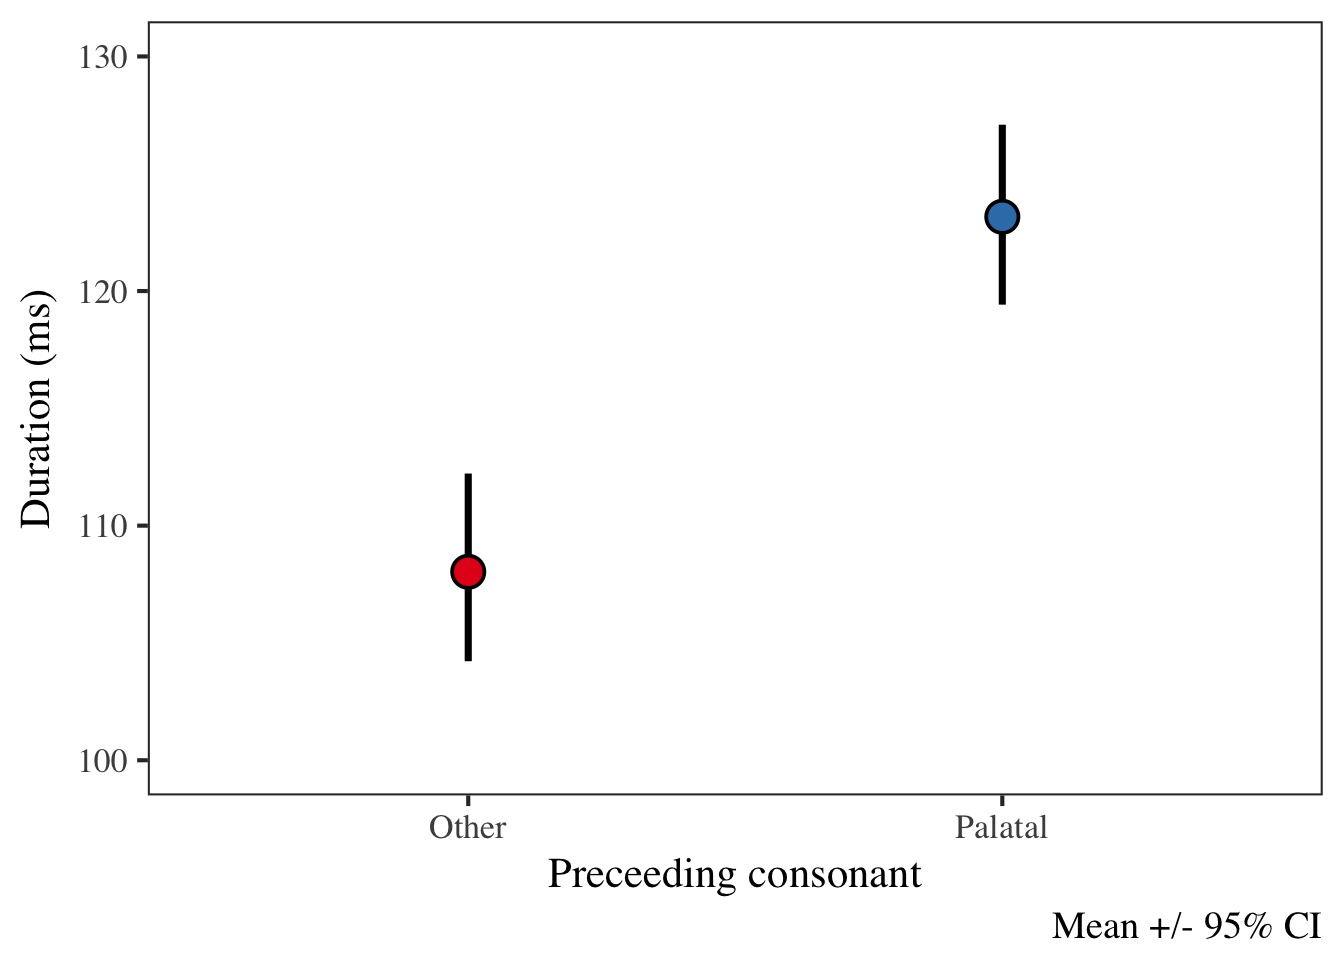
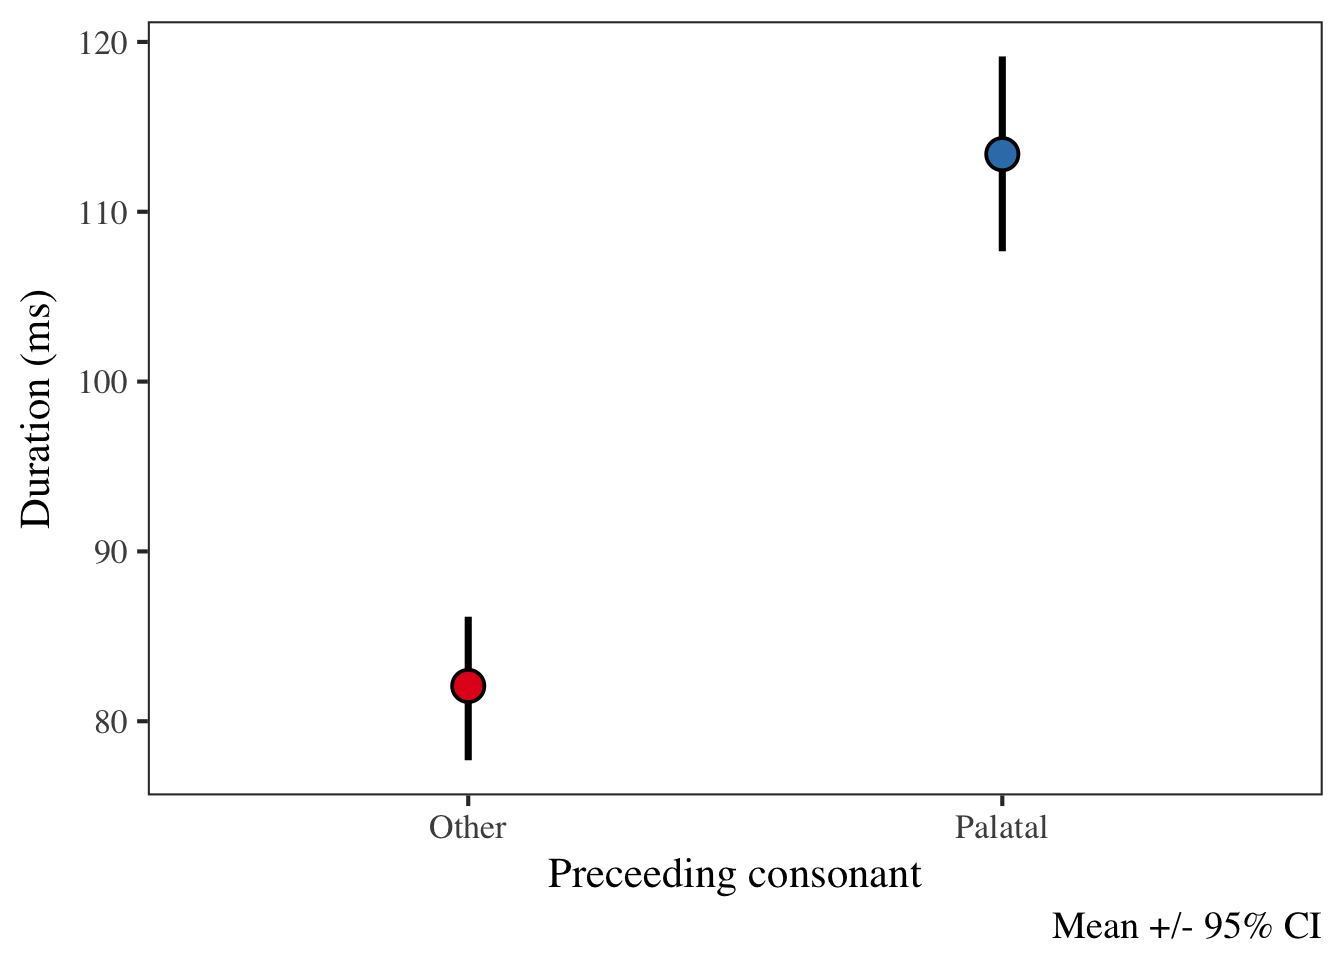
update plots

diff --git a/README.md b/README.md
@@ -82,3 +82,7 @@ Carrier sentence task
     hls_carrier_int_p3
 
 <img src="README_files/figure-markdown_strict/hls_carrier_int_p3-1.png" width="672" />
+
+    hls_carrier_scatter_p4
+
+<img src="README_files/figure-markdown_strict/hls_carrier_scatter_p4-1.png" width="672" />
